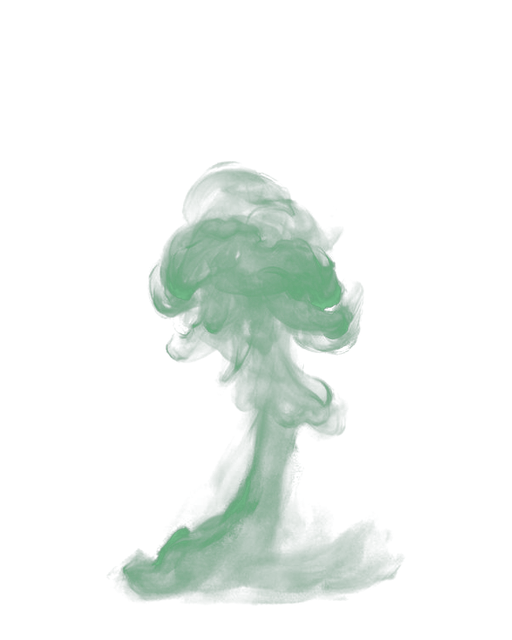
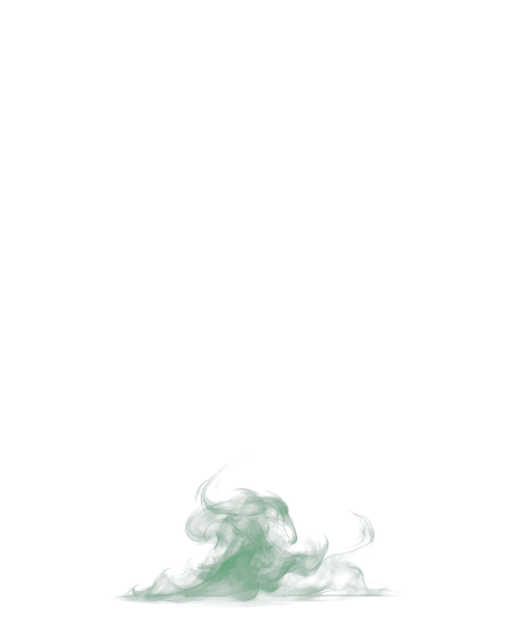
V0.2.13.2 青烟换第二版手绘六帧：细长上升烟缕，第1格贴地小团、尾帧近空白

Changed region(s): [[0.2188, 0.25, 0.7812, 0.9688]]

diff --git a/tools/redraw_batches.md b/tools/redraw_batches.md
@@ -45,7 +45,7 @@
 16. **伥鬼扔石头（V0.2.12）**：`scripts/rock_projectile.gd` 用纯 Node2D 走弧线＋矩形重叠，不建 Area2D——物理回调里 `add_child` 的 Area2D 拿不到 space 是旧坑，这里彻底绕开。落点由 `flight_time = clamp(dist/430, 0.55, 1.5)` 反算，`vy = -0.5*g*T`，正好压到对面受击框。AI 侧 `dist > 360` 才掷、冷却 2.5s，中近距不掷。**命名坑**：计划串不能叫 `throw`——`_contains_forbidden()` 把 `throw` 当作投技（指令投）列入禁项，改叫 `rock`。离屏预览 `docs/preview/rock-preview.png`（1920 渲染后缩 960）。
 
 17. **伥鬼死亡化青煙 + 掉落（V0.2.13，演出／掉落層）**：血量歸零（含牆族加成、架招磨死）走 `_begin_death()`，`_physics_process` 頂端 `_dying` 分支完全接管（不讀輸入不出招），0.25s 起本體淡出 0.8s、1.05s 收尾隱藏本體＋關碰撞；青煙初版為程序粒子（已於第 18 條改為手繪六幀）。掉落補上工程原本沒有的系統：`scripts/coin_pickup.gd` 純 Node2D 程序繪製＋64×180 重疊判定＋上下浮動，碎銀必掉、木牌 10%（`drop_chance` 可 export 調），主場景加「拾得：xxx」提示並在青煙散完後才判勝（`$P2._death_done`）。**踩坑**：自測同時讓引擎與手動各推一次 P2 的 `_physics_process`，死亡計時兩倍速（n=35 就 finished、alpha=0），淡出斷言必假——引擎推進與手動推進只能留一條；另 `selftest_ai` 受擊後退段原本把假人血量壓到 1，現在會直接判死凍住 AI，已改成 50。
-18. **青煙改手繪六幀序列（V0.2.13.1，美術／特效層）**：不再用程序粒子，改成一張六格橫向水墨序列原畫（`docs/preview/death-mist-sheet-src.png`，3072×1024 檔位、生成後 3547×1182），`tools/build_death_mist_frames.py` 依「全黑列」自動偵測六格邊界（實測 6 格全部命中，無需等寬硬切），逐格以亮度反推 Alpha（`max(r,g,b)` → alpha，乘 1.5 提亮）並把亮度映射成灰綠墨色，等比縮到 300×560 後貼進 512×640 畫布、底邊 612 對齊。踩坑：初版 alpha 只乘 1.15 且 sprite scale 0.7，暗底實機截圖裡整縷煙幾乎看不見（覆蓋率 16%→實機細線），提亮＋放大到 0.9 才立住。遊戲端 `AnimatedSprite2D` + 運行時 `SpriteFrames`（9fps、loop=false），播完停最淡一幀、1.8s 後 `queue_free`；`_mist_node` 供自測斷言 6 幀。六幀總覽 `docs/preview/death-mist-frames.png`，實機四時點連拍 `docs/preview/death-mist-sequence.png`（0.20/0.43/0.70/0.97s）。
+18. **青煙改手繪六幀序列（V0.2.13.1 → V0.2.13.2 換第二版，美術／特效層）**：不再用程序粒子，改成一張六格橫向水墨序列原畫（`docs/preview/death-mist-sheet-src.png`，3072×1024 檔位、生成後 3547×1182），`tools/build_death_mist_frames.py` 依「全黑列」自動偵測六格邊界（實測 6 格全部命中，無需等寬硬切），逐格以亮度反推 Alpha（`max(r,g,b)` → alpha，乘 1.5 提亮）並把亮度映射成灰綠墨色，等比縮到 300×560 後貼進 512×640 畫布、底邊 612 對齊。踩坑：初版 alpha 只乘 1.15 且 sprite scale 0.7，暗底實機截圖裡整縷煙幾乎看不見（覆蓋率 16%→實機細線），提亮＋放大到 0.9 才立住。遊戲端 `AnimatedSprite2D` + 運行時 `SpriteFrames`（9fps、loop=false），播完停最淡一幀、1.8s 後 `queue_free`；`_mist_node` 供自測斷言 6 幀。第二版（`death-mist-sheet-src2.png`）把六格收成細長上升煙縷、去掉團塊與樹枝狀分叉，第 1 格只剩貼地小團、第 6 格近乎空白；實機四連拍對比後採用第二版（細而利，更貼水墨青煙）。**換圖踩坑**：只覆蓋 png 而不動 `.import`，Godot 會沿用 `.godot/imported` 裡的舊 ctex，實機截圖還是舊幀——必須同時刪 `assets/fx/death_mist/*.import` 與 `.godot/imported/mist_*` 再 `--import`，否則比對結果會自我欺騙。六幀總覽 `docs/preview/death-mist-frames-v2.png`，實機四時點連拍 `docs/preview/death-mist-sequence.png`（0.20/0.43/0.70/0.97s）。
 
 ### 待编辑器目视（人工项，headless 不可替代，docs/07 §6.4）
 

diff --git a/README.md b/README.md
@@ -126,7 +126,7 @@
 
 - [x] **V0.2.13 伥鬼死亡化青煙 + 掉落（docs/04 §2；`tools/selftest_death.gd` 16 項 PASS）**：
   - **死亡演出**：血量歸零（含被牆族加成打死、架招磨死）不再進常規 `HurtStand`，改走 `_begin_death()`——倒地姿態 + 青煙粒子，0.25s 起本體淡出 0.8s，1.05s 收尾（隱藏本體、關碰撞、掉東西）。`_physics_process` 頂端 `_dying` 分支完全接管該幀，不讀輸入、不出招；`take_damage()`／`on_blocked()` 對 `_dying` 直接 return，屍體不會被鞭屍重複結算。
-  - **青煙是手繪六幀序列**：`assets/fx/death_mist/mist_01–06.png`（512×640，底邊對齊 612）。原畫是一張六格橫向序列圖（`docs/preview/death-mist-sheet-src.png`），`tools/build_death_mist_frames.py` 用純黑底亮度反推 Alpha、再按亮度映射灰綠墨色（濃 #2E4A3C → 亮處乳白），裁到 300×560 上限等比貼進畫布——因此沒有灰底、沒有方塊粒子邊。遊戲內 `AnimatedSprite2D` + 運行時 `SpriteFrames`（9fps、不循環、scale 0.9、位置 y=−288），播完停在最淡一幀，1.8s 後自清；本體淡出照舊，煙比人晚散。
+  - **青煙是手繪六幀序列（第二版細長煙）**：`assets/fx/death_mist/mist_01–06.png`（512×640，底邊對齊 612）。原畫是一張六格橫向序列圖（`docs/preview/death-mist-sheet-src2.png`，第一版為 `death-mist-sheet-src.png`），`tools/build_death_mist_frames.py` 用純黑底亮度反推 Alpha、再按亮度映射灰綠墨色（濃 #2E4A3C → 亮處乳白），裁到 300×560 上限等比貼進畫布——因此沒有灰底、沒有方塊粒子邊。遊戲內 `AnimatedSprite2D` + 運行時 `SpriteFrames`（9fps、不循環、scale 0.9、位置 y=−288），播完停在最淡一幀，1.8s 後自清；本體淡出照舊，煙比人晚散。
   - **掉落系統（工程原本沒有）**：新增 `scripts/coin_pickup.gd`——純 Node2D 程序繪製（碎銀不規則銀塊／木牌木片+掛繩）、上下浮動、玩家受擊框（64×180）重疊即拾取並回調主場景。碎銀必掉、木牌按 `drop_chance`（默認 0.1，export 可調）；`main_rigged.gd` 加拾取提示 Label（「拾得：xxx」，2s 淡出）。
   - **勝負判定**改為 `$P2.current_hp <= 0 and $P2._death_done`——青煙散完才彈「武松勝！」，避免人還沒散就出結果。
   - **踩坑（自測時序）**：P2 若同時由引擎物理推進、又在物理回調裡手推 `_physics_process`，兩條推進疊加會讓 `_death_t` 兩倍速（n=35 就已 finished、alpha 0），「淡出中」斷言必假；只能選一條——現在 P2 交給引擎自走，只手推 `main._process`。
